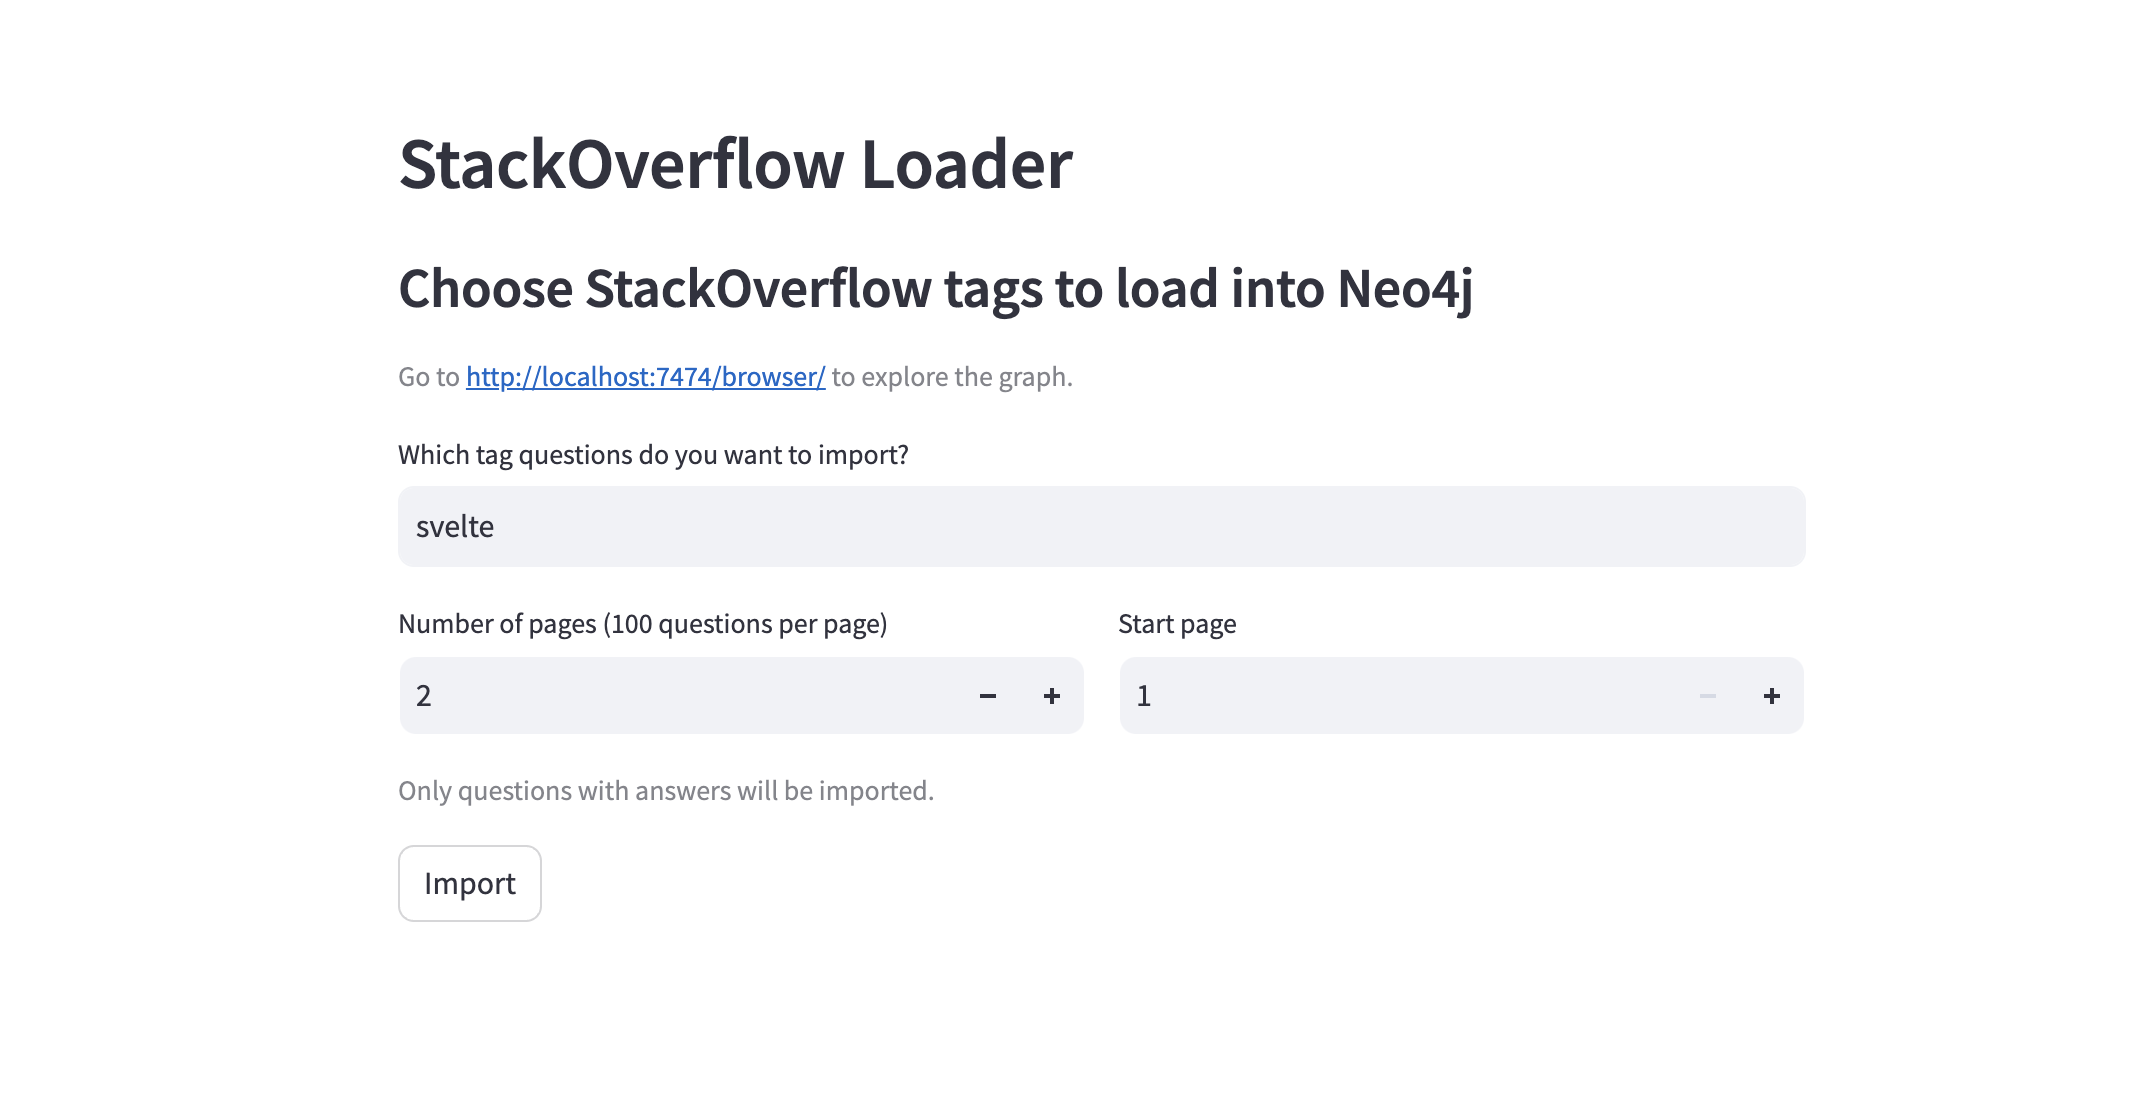
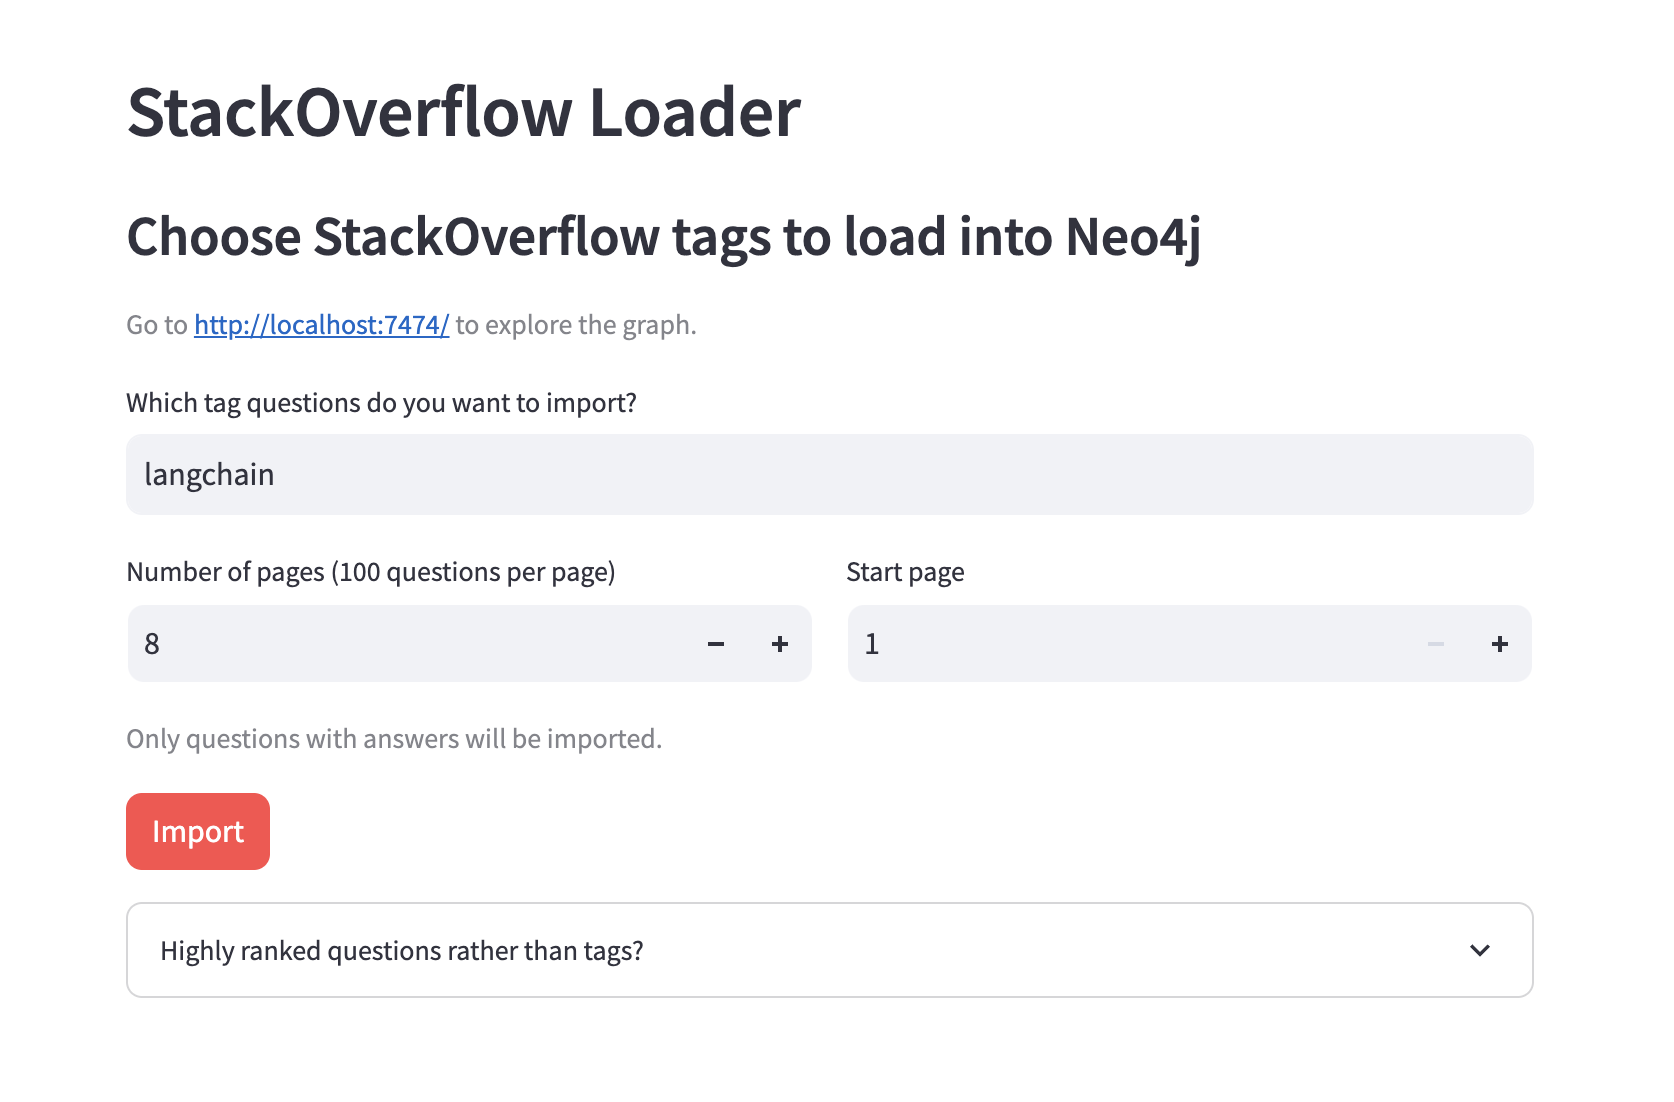
Update README

diff --git a/readme.md b/readme.md
@@ -1,9 +1,11 @@
-# LangChain Docker Starter Kits
-
+# GenAI Stack
+This GenAI application stack will get you started building your
+own GenAI application in no time.  
+The demo applications can serve as inspiration or as a starting point.
 
 # Configuration
 
-Use an `.env` file for the OPENAI_API_KEY (see `env.example`)
+Create a `.env` file from the environment template file `env.example`
 
 # Develop
 **To start everything**
@@ -31,18 +33,24 @@ docker compose down
 # Applications
 ## App 1 - Support Agent Bot  
 
-UI: http://localhost:8501
+UI: http://localhost:8501  
+DB client: http://localhost:7474
 
 - answer support question based on recent entries
 - provide summarized answers with sources
-- demonstrate difference between
-    - pure LLM
-    - LLM + RAG (vector)
-    - LLM + RAG (vector + knowledge graph context)
-- allow to generate an great SO question for the current conversation based on the style of highly rated questions in the database
+- demonstrate difference between 
+    - RAG Disabled (pure LLM reponse)
+    - RAG Enabled (vector + knowledge graph context)
+- allow to generate a high quality support ticket for the current conversation based on the style of highly rated questions in the database.
 
-![concept, not actual UI](.github/media/app1-concept.png)  
-*(not actual UI, just showing the concept)*
+![](.github/media/app1-rag-selector.png)  
+*(Chat input + RAG mode selector)*
+
+![](.github/media/app1-generate.png)  
+*(CTA to auto generate support ticket draft)*
+
+![](.github/media/app1-ticket.png)  
+*(UI of the auto generated support ticket draft)*
 
 --- 
 
@@ -51,26 +59,10 @@ UI: http://localhost:8501
 UI: http://localhost:8502  
 DB client: http://localhost:7474
 
-- import recent (last weeks/months) SO data for certain tags into a KG
+- import recent SO data for certain tags into a KG
 - embed questions and answers and store in vector index
 - UI: choose tags, run import, see progress, some stats of data in the database
+- Load high ranked questions (regardless of tags) to support the ticket generation feature of App 1.
 
 ![](.github/media/app2-ui-1.png)  
 ![](.github/media/app2-model.png)
-
----
-
-## App 3 Summarization / generation tasks
-
-UI: TBD
-
-- instead of just having the links to the original sources also demonstrate the following on the base data
-- summarized version of the linked question, all it's answers and comments
-    - as a bullet list
-    - as a chain of thought
-    - as a GitHub issue
-    - as a fairy tale (fun)
-    - as a poem (fun)
-    - as a TIL blog post (markdown)
-    - as a report / chart / graph?
-
